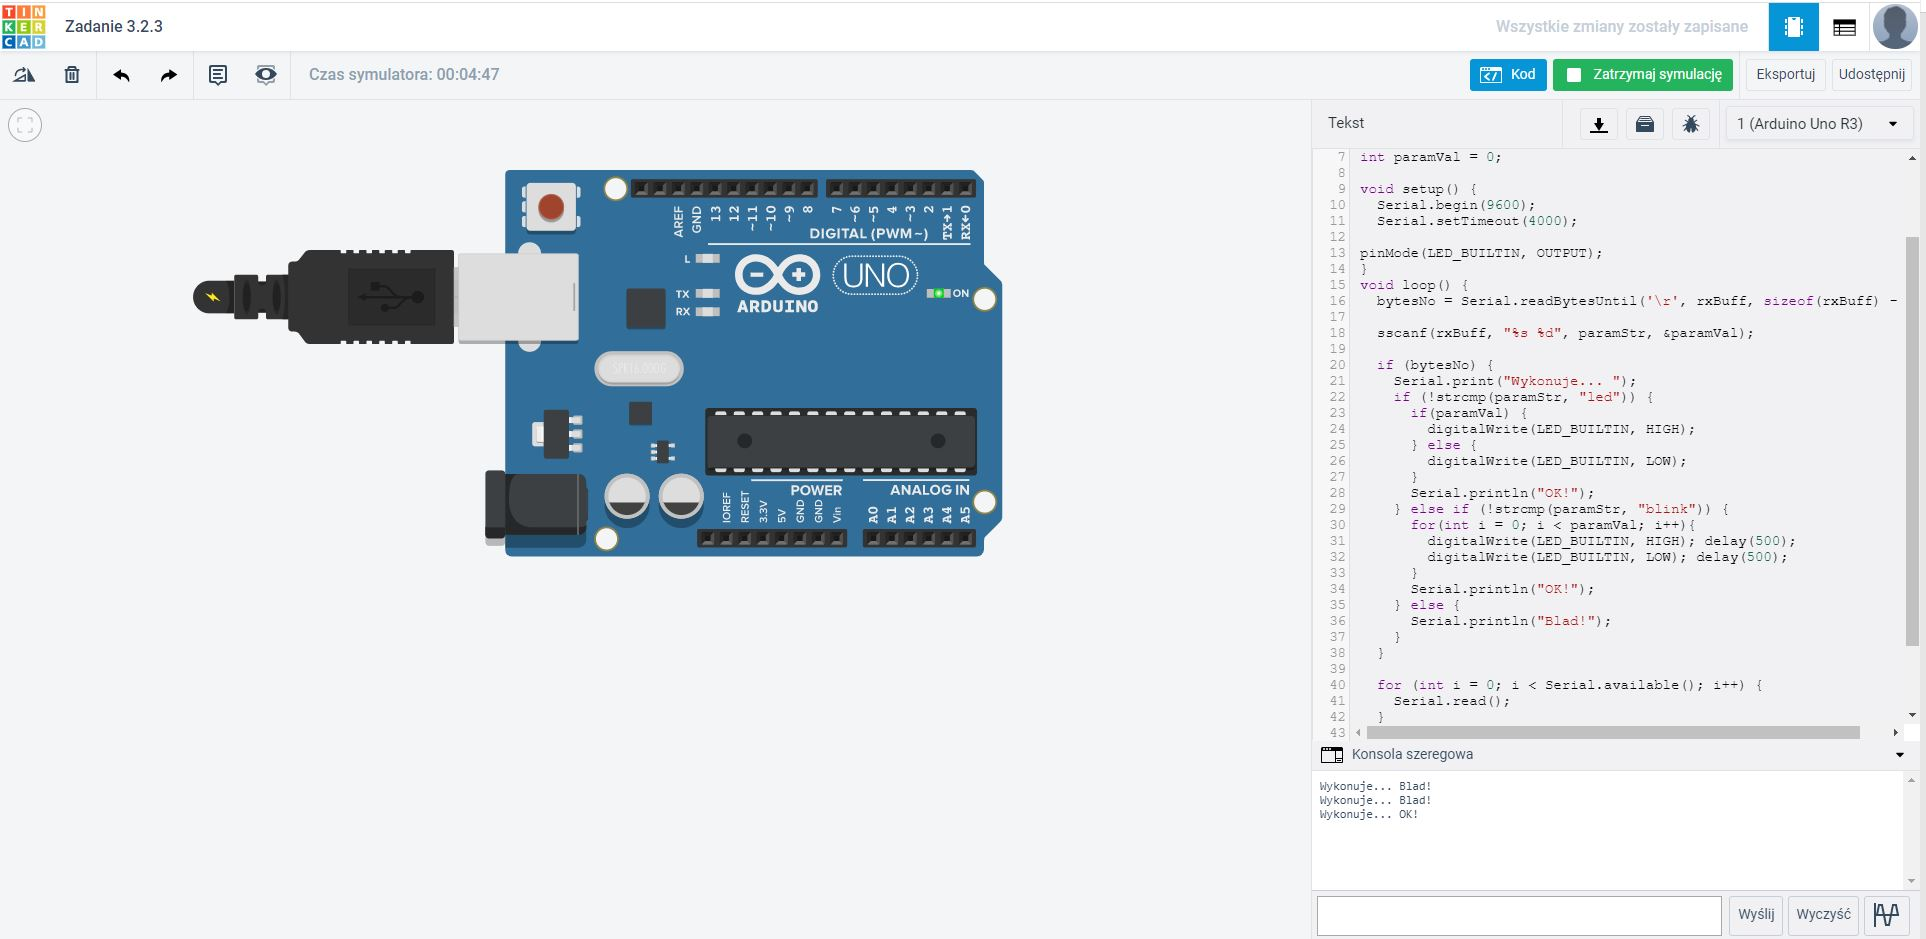
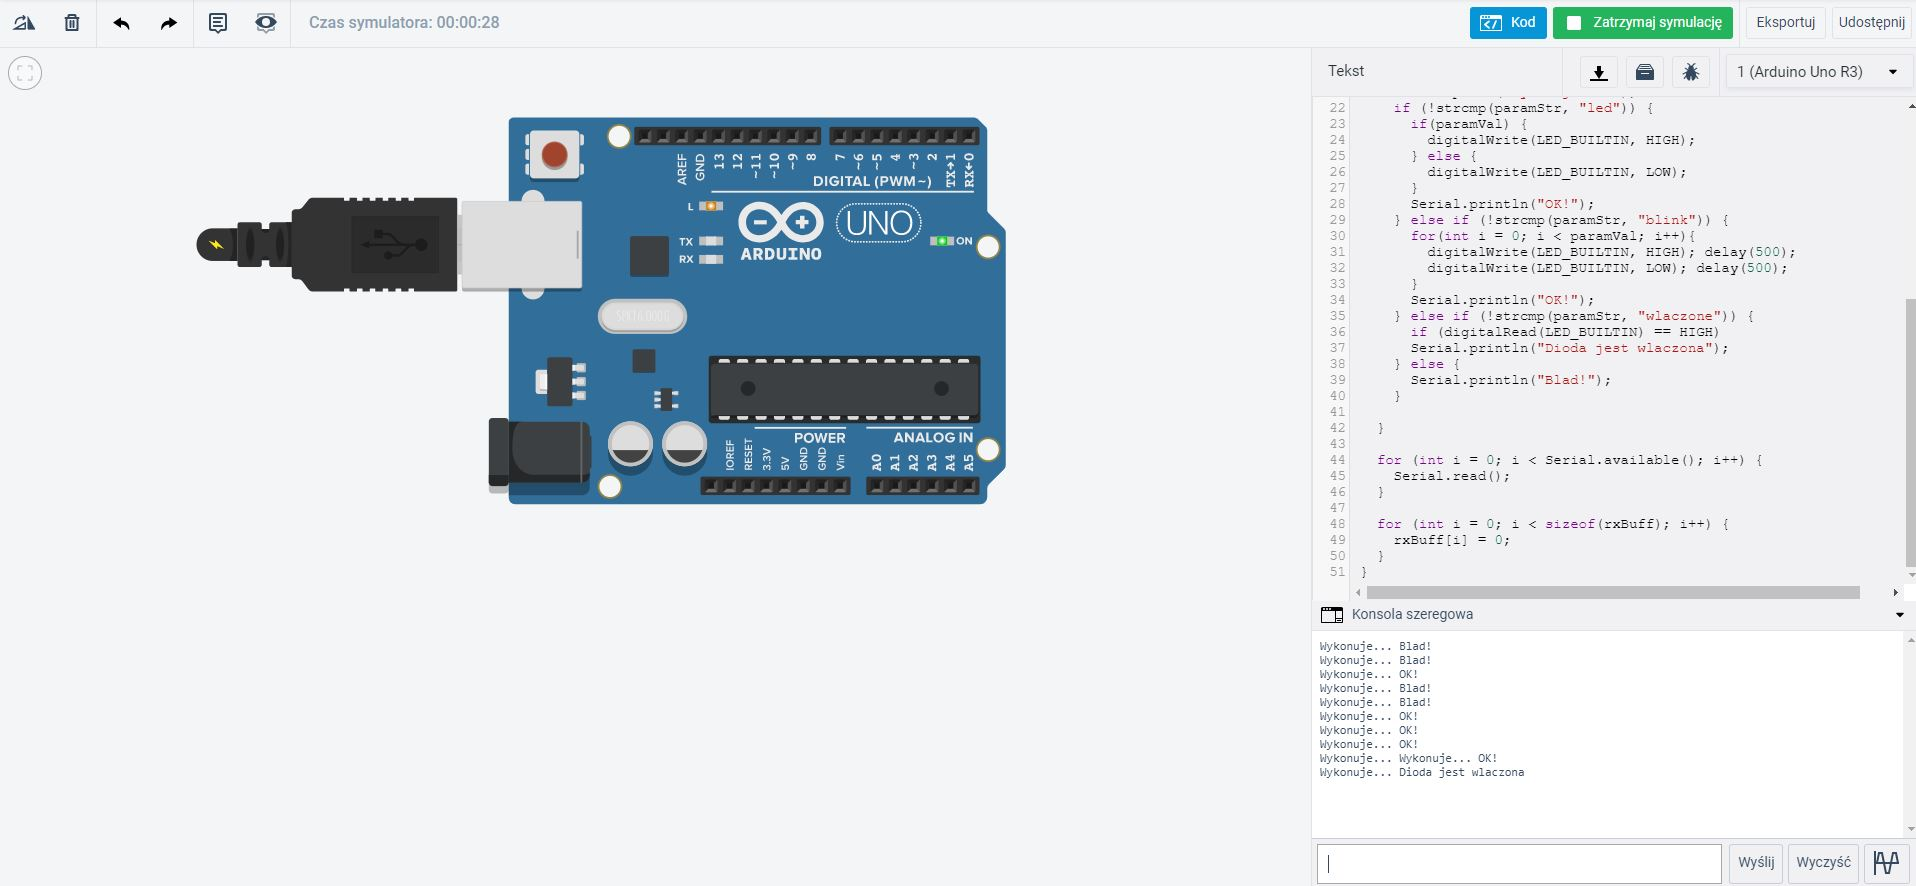
Wykonano zadanie 3.2.3 - konsola wiersza polecen poprawione

diff --git a/Zadanie-3-2/src/main.cpp b/Zadanie-3-2/src/main.cpp
@@ -17,7 +17,7 @@ void loop() {
 
   sscanf(rxBuff, "%s %d", paramStr, &paramVal);
 
-  if (bytesNo) { 
+ if (bytesNo) { 
     Serial.print("Wykonuje... ");
     if (!strcmp(paramStr, "led")) {
       if(paramVal) {
@@ -32,9 +32,13 @@ void loop() {
         digitalWrite(LED_BUILTIN, LOW); delay(500);
       }
       Serial.println("OK!");
+    } else if (!strcmp(paramStr, "wlaczone")) {
+      if (digitalRead(LED_BUILTIN) == HIGH)
+      Serial.println("Dioda jest wlaczona");
     } else {
       Serial.println("Blad!");
     }
+  
   }
   
   for (int i = 0; i < Serial.available(); i++) {

diff --git a/README.md b/README.md
@@ -25,7 +25,11 @@ Można dodać intrukcję warunkową która będzie zerowała liczbę wciśnięć
 
 zadanie 3.2.3
 
-Należy dodać polecenie które spowoduje, że ukaże się informacja czy dioda LED jest włączona. 
+ Odpowiedz (kod) :  
 
-
+    if (!strcmp(paramStr, "Wlaczona")) 
+    {
+      if (digitalRead(LED_BUILTIN) == HIGH)
+      Serial.println("Dioda wlaczona");
+    }
 
